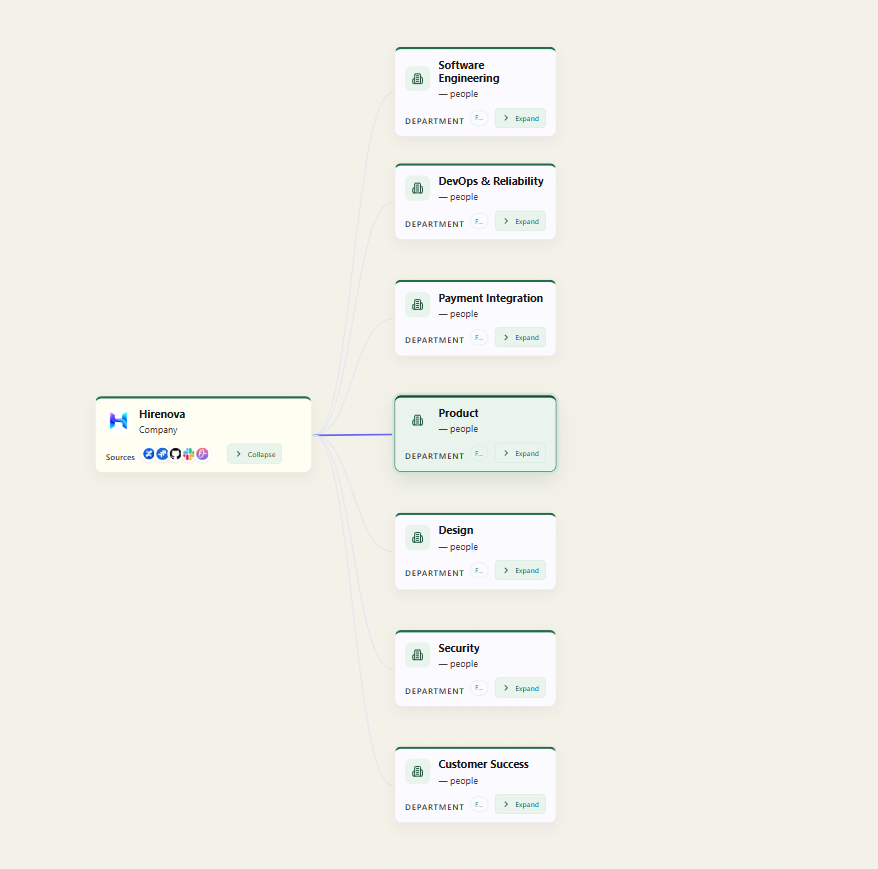
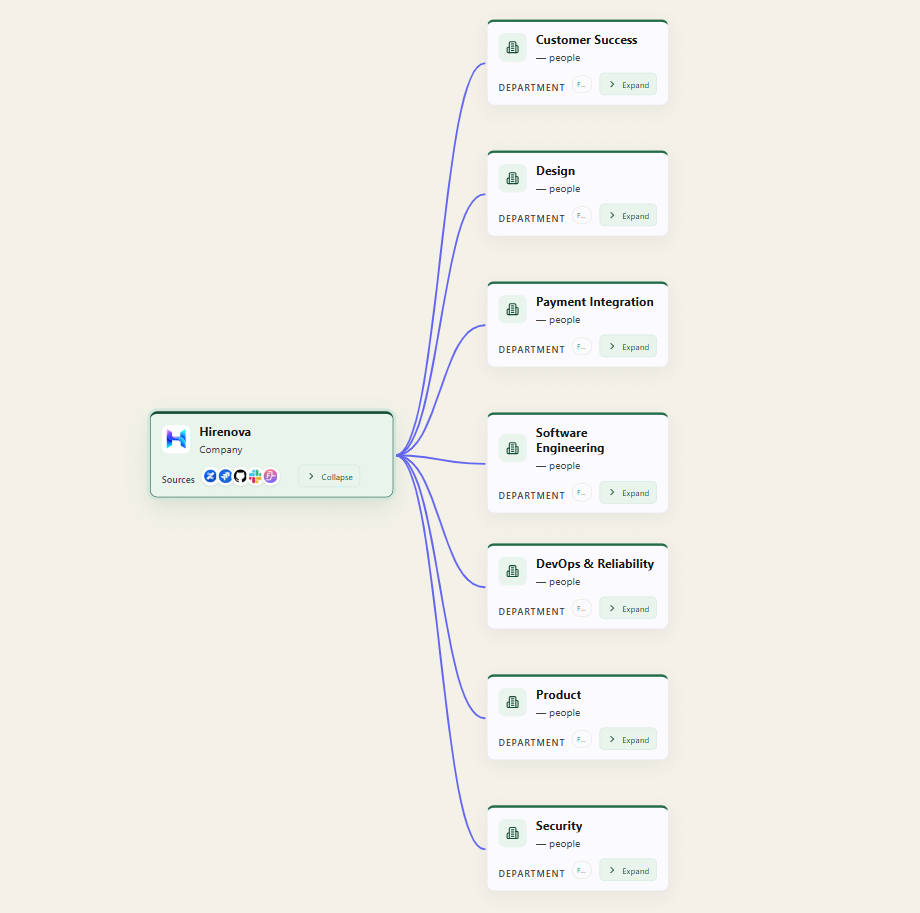
feat: improve OrgMind chat and Jira answers

diff --git a/backend/src/agents/organization-intelligence/workflow/retrieval-graph.ts b/backend/src/agents/organization-intelligence/workflow/retrieval-graph.ts
@@ -18,6 +18,7 @@ export const RetrievalState = Annotation.Root({
   queryText: replace<string>(() => ''),
   queryEmbedding: replace<number[]>(() => []),
   queryEmbeddings: replace<number[][]>(() => []),
+  aggregateMetric: replace<'team-count' | 'people-count' | 'jira-issue-count' | 'recent-jira-issues' | undefined>(() => undefined),
   searchResults: replace<SearchResult[]>(() => []),
   retrievedChunks: replace<RetrievedChunkInfo[]>(() => []),
   sources: replace<RAGSourceCitation[]>(() => []),
@@ -84,6 +85,12 @@ export function createRetrievalWorkflow(config: RetrievalGraphConfig = {}) {
   const store = config.vectorStore ?? new PersistentVectorStore();
   const embeddings = config.embeddingService ?? new GeminiEmbeddingService();
   const model = config.model ?? configuredRagModel();
+  const canAnswerWithLiveAggregate = (state: RetrievalWorkflowState) => {
+    const databaseAllowed = (!state.request.sourceTypes || state.request.sourceTypes.includes('database')) &&
+      (!state.request.sourcePlatforms || state.request.sourcePlatforms.includes('database') ||
+        (state.aggregateMetric === 'jira-issue-count' || state.aggregateMetric === 'recent-jira-issues') && state.request.sourcePlatforms.includes('jira'));
+    return store instanceof FalkorDBVectorStore && Boolean(state.aggregateMetric) && databaseAllowed;
+  };
 
   const graph = new StateGraph(RetrievalState)
     // 1. process_user_query
@@ -107,15 +114,24 @@ export function createRetrievalWorkflow(config: RetrievalGraphConfig = {}) {
       const retrievalQuery = previous
         ? `${q}\nPrevious question: ${previous.query}\nPrevious answer: ${previous.answer}`
         : q;
+      const asksForCount = /\b(how many|number of|count of|total)\b/i.test(q);
+      const hasLocalScope = /\b(?:department|within|per)\b/i.test(q);
+      const asksForJiraIssues = /\bjira\b/i.test(q) && /\b(issues?|tickets?)\b/i.test(q);
+      let aggregateMetric: RetrievalWorkflowState['aggregateMetric'];
+      if (asksForCount && !hasLocalScope && asksForJiraIssues) aggregateMetric = 'jira-issue-count';
+      else if (!asksForCount && asksForJiraIssues && /\b(recent|latest|newest|last)\b/i.test(q)) aggregateMetric = 'recent-jira-issues';
+      else if (asksForCount && !hasLocalScope && /\bteams\b/i.test(q)) aggregateMetric = 'team-count';
+      else if (asksForCount && !hasLocalScope && !/\bteams?\b/i.test(q) && /\b(people|persons?|employees?|headcount|staff)\b/i.test(q)) aggregateMetric = 'people-count';
       return {
         queryText: retrievalQuery,
+        aggregateMetric,
         status: 'received' as const
       };
     })
 
     // 2. generate_query_embedding
     .addNode('generate_query_embedding', async (state) => {
-      if (state.status !== 'received') return {};
+      if (state.status !== 'received' || canAnswerWithLiveAggregate(state)) return {};
       try {
         const dimensions = await store.getEmbeddingDimensions();
         const queryEmbeddings = dimensions.length
@@ -134,6 +150,82 @@ export function createRetrievalWorkflow(config: RetrievalGraphConfig = {}) {
     .addNode('retrieve_relevant_context', async (state) => {
       if (state.status !== 'received') return {};
       try {
+        if (canAnswerWithLiveAggregate(state) && store instanceof FalkorDBVectorStore && state.aggregateMetric) {
+          if (state.aggregateMetric === 'jira-issue-count' || state.aggregateMetric === 'recent-jira-issues') {
+            const sourcePath = '/api/tickets';
+            const title = 'Verified Jira issues indexed in the company graph';
+            let count = 0;
+            let evidence: string;
+            let answer: string;
+            if (state.aggregateMetric === 'jira-issue-count') {
+              count = await store.countVerifiedJiraIssues();
+              evidence = `The live company graph contains ${count} distinct verified Jira issue records (Ticket and Bug nodes), matching the Jira-filtered Tickets API count. Synthetic records are excluded.`;
+              answer = `There are **${count} verified Jira issues** indexed in the company graph. [S1]`;
+            } else {
+              const issues = await store.getRecentVerifiedJiraIssues(5);
+              count = await store.countVerifiedJiraIssues();
+              evidence = issues.length
+                ? `The five most recently updated verified Jira issue records, sorted by their recorded updatedAt, updated, createdAt, or created timestamp:\n${issues.map((issue) => `- ${issue.key}: ${issue.summary}${issue.status ? `; status ${issue.status}` : ''}${issue.priority ? `; priority ${issue.priority}` : ''}${issue.updatedAt ? `; updated ${issue.updatedAt}` : ''}`).join('\n')}`
+                : `No verified Jira issue records are currently available in the company graph. The graph contains ${count} distinct verified Jira issue records.`;
+              answer = issues.length
+                ? `Here are the most recently updated Jira issues in the indexed records:\n\n${issues.map((issue) => `- **${issue.key} — ${issue.summary}**${issue.status ? ` · ${issue.status}` : ''}${issue.priority ? ` · ${issue.priority}` : ''}${issue.updatedAt ? ` · updated ${issue.updatedAt}` : ''}`).join('\n')}\n\n[S1]`
+                : `There are no verified Jira issues indexed right now. [S1]`;
+            }
+            const chunkId = `live-${state.aggregateMetric}-${count}`;
+            const timestamp = new Date().toISOString();
+            const metadata = {
+              chunkId,
+              orgId: state.request.orgId ?? 'hirenova',
+              sourceType: 'database' as const,
+              sourcePath,
+              title,
+              contentHash: `live:${state.aggregateMetric}:${count}`,
+              docHash: `live:${state.aggregateMetric}:${count}`,
+              createdAt: timestamp,
+              updatedAt: timestamp,
+              summaryKind: state.aggregateMetric
+            };
+            return {
+              candidateCount: 1,
+              retrievedChunks: [{ chunkId, sourcePath, score: 1, text: evidence, platform: 'jira' as const, metadata }],
+              sources: [{ title, sourceType: 'database' as const, sourcePath, platform: 'jira' as const, excerpt: evidence }],
+              answer,
+              status: 'completed' as const
+            };
+          }
+          const entity = state.aggregateMetric === 'team-count' ? 'Team' : 'Employee';
+          const count = await store.countOrganizationEntities(entity);
+          const entityName = entity === 'Team' ? 'team' : 'people';
+          const sourcePath = `database/Organization/${state.aggregateMetric}`;
+          const title = `Live organization ${entityName} count from FalkorDB`;
+          const text = entity === 'Team'
+            ? `The live company graph contains ${count} Team nodes, counted as distinct graph entities.`
+            : `The live company graph contains ${count} Employee nodes, counted as distinct graph entities. This total includes every employee record regardless of employment status.`;
+          const chunkId = `live-aggregate-${state.aggregateMetric}`;
+          const timestamp = new Date().toISOString();
+          const metadata = {
+            chunkId,
+            orgId: state.request.orgId ?? 'hirenova',
+            sourceType: 'database' as const,
+            sourcePath,
+            title,
+            contentHash: `live:${state.aggregateMetric}:${count}`,
+            docHash: `live:${state.aggregateMetric}:${count}`,
+            createdAt: timestamp,
+            updatedAt: timestamp,
+            summaryKind: 'live-entity-count'
+          };
+          const answer = entity === 'Team'
+            ? `The live company graph contains **${count} teams**. [S1]`
+            : `The live company graph records **${count} people** as Employee nodes. This includes all employment statuses. [S1]`;
+          return {
+            candidateCount: 1,
+            retrievedChunks: [{ chunkId, sourcePath, score: 1, text, platform: 'database' as const, metadata }],
+            sources: [{ title, sourceType: 'database' as const, sourcePath, platform: 'database' as const, excerpt: text }],
+            answer,
+            status: 'completed' as const
+          };
+        }
         const topK = Math.min(state.request.topK ?? 5, 5);
         const candidateLimit = Math.max(10, topK);
         const searchOptions = {

diff --git a/frontend/components/assistant/CompanyAssistant.tsx b/frontend/components/assistant/CompanyAssistant.tsx
@@ -1,7 +1,7 @@
 "use client";
 
 import { useEffect, useLayoutEffect, useRef, useState, type FormEvent, type KeyboardEvent } from "react";
-import { ArrowDown, ArrowUpRight, Bot, Compass, MessageSquarePlus, Send, Sparkles, UserRound, X } from "lucide-react";
+import { ArrowDown, ArrowUpRight, Bot, MessageSquarePlus, Send, Sparkles, UserRound, X } from "lucide-react";
 import { AgentResponseRenderer } from "@/components/assistant/AgentResponseRenderer";
 import { api, entityName, friendlyApiError } from "@/lib/api";
 import { isProductGraphEntity } from "@/lib/graph/mode";
@@ -19,7 +19,7 @@ const newMessageId = () => `${Date.now()}-${Math.random().toString(36).slice(2, 
 const ragGreeting: Message = {
   id: "rag-greeting",
   role: "assistant",
-  content: "Ask about your company’s projects, people, incidents, decisions, and documentation. OrgMind searches indexed company evidence and cites the sources it uses.",
+  content: "Ask about your company’s projects, people, incidents, decisions, and documentation. Nora searches indexed OrgMind evidence and cites the sources it uses.",
 };
 const graphGreeting: Message = {
   id: "graph-greeting",
@@ -27,6 +27,8 @@ const graphGreeting: Message = {
   content: "Ask about indexed company graph records. I can inspect ownership, decisions, dependencies, and connected evidence.",
 };
 const ragSuggestions = [
+  "What are the most recent Jira issues?",
+  "How many Jira tickets are indexed?",
   "What is the engineering team working on?",
   "Summarize recent incidents.",
   "who is responsible person for payment teams",
@@ -39,7 +41,7 @@ export function CompanyAssistant({ open, onClose, selected }: {
   onClose: () => void;
   selected?: { entity: Entity; entityType: GraphEntityType | "Unknown" } | null;
 }) {
-  const [mode, setMode] = useState<"intelligence" | "graph">("intelligence");
+  const [mode] = useState<"intelligence" | "graph">("intelligence");
   const [messages, setMessages] = useState<Message[]>([ragGreeting]);
   const [draft, setDraft] = useState("");
   const [pending, setPending] = useState(false);
@@ -87,16 +89,6 @@ export function CompanyAssistant({ open, onClose, selected }: {
     lastFailedRequest.current = null;
     nearBottom.current = true;
     setShowJump(false);
-  }
-
-  function handleModeChange(newMode: "intelligence" | "graph") {
-    if (newMode === mode) return;
-    invalidateActiveRequest();
-    setMode(newMode);
-    setConversationId(null);
-    setError("");
-    lastFailedRequest.current = null;
-    setMessages([newMode === "intelligence" ? ragGreeting : graphGreeting]);
   }
 
   async function selectConversation(id: string) {
@@ -188,7 +180,10 @@ export function CompanyAssistant({ open, onClose, selected }: {
     const requestController = new AbortController();
     controller.current = requestController;
     const userMessageId = newMessageId();
-    if (appendUser) setMessages((previous) => [...previous, { id: userMessageId, role: "user", content: question }]);
+    if (appendUser) {
+      setMessages((previous) => [...previous, { id: userMessageId, role: "user", content: question }]);
+      setDraft((previous) => previous === question ? "" : previous);
+    }
     setPending(true);
     setError("");
     lastFailedRequest.current = null;
@@ -267,12 +262,13 @@ export function CompanyAssistant({ open, onClose, selected }: {
   const connected = connection === "available" && (mode !== "intelligence" || ragStatus?.vectorStore !== "unavailable");
   if (!open) return null;
 
-  return <section className="assistant-panel" aria-label="OrgMind Assistant" data-lenis-prevent>
+  return <section className="assistant-panel" aria-label="Nora company assistant" data-lenis-prevent>
     <header className="assistant-header">
       <div className="assistant-title">
         <span className="assistant-title-icon"><img src="/img/logo.png" alt="" width={24} height={24} /></span>
         <div className="assistant-heading-copy">
-          <b>OrgMind Assistant</b>
+          <b>Nora</b>
+          <span className="assistant-brand-caption">OrgMind company intelligence</span>
           <span className={`assistant-connection ${connected ? "is-available" : connection === "checking" ? "is-checking" : "is-unavailable"}`} role="status">
             <i aria-hidden="true" />{connected ? "Connected" : connection === "checking" ? "Checking connection" : "Backend unavailable"}
           </span>
@@ -286,11 +282,6 @@ export function CompanyAssistant({ open, onClose, selected }: {
         <button type="button" className="icon-button" onClick={onClose} aria-label="Close assistant"><X size={16} /></button>
       </div>
     </header>
-
-    <div className="assistant-mode-bar" role="tablist" aria-label="Assistant mode">
-      <button type="button" role="tab" aria-selected={mode === "intelligence"} className={`assistant-mode-pill ${mode === "intelligence" ? "active" : ""}`} onClick={() => handleModeChange("intelligence")}><Sparkles size={14} /><span>Company knowledge</span></button>
-      <button type="button" role="tab" aria-selected={mode === "graph"} className={`assistant-mode-pill ${mode === "graph" ? "active" : ""}`} onClick={() => handleModeChange("graph")}><Compass size={14} /><span>Graph Explorer</span></button>
-    </div>
 
     <div className="assistant-context-line">
       <span>{mode === "intelligence" ? "Search across indexed company knowledge" : selected ? `Context: ${selected.entityType} · ${entityName(selected.entity)}` : "Explore relationships in the company graph"}</span>
@@ -317,7 +308,7 @@ export function CompanyAssistant({ open, onClose, selected }: {
           {message.ragResponse && <AgentResponseRenderer payload={message.ragResponse} messageId={message.id} />}
           {!message.ragResponse && message.response && <AgentResponseRenderer payload={message.response} onAction={action} messageId={message.id} />}
         </div>)}
-        {pending && <div className="assistant-pending" role="status"><span className="spinner" />{mode === "intelligence" ? "Searching company sources and preparing an answer…" : "Retrieving graph evidence…"}</div>}
+        {pending && <div className="assistant-pending" role="status"><span className="orgmind-thinking-orb" aria-hidden="true"><i /><i /><i /><b /></span><span>{mode === "intelligence" ? "Nora is connecting the evidence…" : "Nora is exploring graph relationships…"}</span></div>}
         {error && <div className="assistant-error" role="alert"><span>{error}</span>{lastFailedRequest.current && <button className="small-button" type="button" onClick={() => {
           const failed = lastFailedRequest.current;
           if (failed) void answer(failed.question, failed.context, false, failed.mode);

diff --git a/frontend/app/globals.css b/frontend/app/globals.css
@@ -5551,7 +5551,7 @@ body {
   line-height: 1.5;
 }
 .assistant-form textarea::placeholder { color: #858a82; }
-.assistant-form textarea:focus-visible { outline: 2px solid #8eae98; outline-offset: 3px; border-radius: 4px; }
+.assistant-form textarea:focus-visible { outline: none; box-shadow: none; }
 .assistant-form button[type="submit"] { grid-column: 3; grid-row: 1; align-self: end; width: 38px; height: 38px; flex: 0 0 auto; }
 .assistant-composer-icon { grid-column: 1; grid-row: 1; align-self: center; color: #6d8b74; }
 .assistant-form button:focus-visible, .assistant-header button:focus-visible, .assistant-mode-pill:focus-visible, .suggestion-chip:focus-visible, .rag-inline-citation:focus-visible, .rag-copy-answer:focus-visible, .assistant-jump-latest:focus-visible { outline: 2px solid #538366; outline-offset: 2px; }
@@ -5583,6 +5583,22 @@ body {
 .rag-source-expand { flex: 0 0 auto; color: #72776f; font-size: 9px; }
 .rag-source-detail { display: grid; gap: 7px; padding: 0 10px 9px 45px; }
 .rag-source-detail > p { margin: 0; color: #686e66; font-size: 10px; line-height: 1.5; white-space: pre-wrap; overflow-wrap: anywhere; }
+.assistant-brand-caption { color: #7b8278; font-size: 9px; letter-spacing: .015em; }
+.assistant-title .assistant-heading-copy { grid-template-columns: 1fr; }
+.assistant-title .assistant-heading-copy > b { color: #183b2c; font-size: 13px; letter-spacing: -.015em; }
+.assistant-pending { min-height: 46px; margin: 2px 0; padding: 7px 10px; border: 1px solid #e5ece3; border-radius: 12px; background: linear-gradient(110deg, #fbfcf6, #f1f7f1 50%, #fbfcf6); }
+.orgmind-thinking-orb { position: relative; display: grid; width: 28px; height: 28px; flex: 0 0 28px; place-items: center; border-radius: 50%; background: radial-gradient(circle at 38% 32%, #d5f4df, #66b889 39%, #1d6545 72%, #16412e); box-shadow: 0 0 0 4px rgba(47, 133, 84, .08), 0 0 16px rgba(47, 133, 84, .25); animation: nora-orb-breathe 1.8s ease-in-out infinite; }
+.orgmind-thinking-orb b { width: 7px; height: 7px; border-radius: 50%; background: #f7fff7; box-shadow: 0 0 8px rgba(255,255,255,.9); }
+.orgmind-thinking-orb i { position: absolute; inset: -4px; border: 1px solid rgba(50, 130, 82, .3); border-radius: 50%; animation: nora-orb-ring 2.2s ease-out infinite; }
+.orgmind-thinking-orb i:nth-child(2) { animation-delay: .72s; }
+.orgmind-thinking-orb i:nth-child(3) { animation-delay: 1.44s; }
+.rag-typing-caret { display: inline-block; width: 2px; height: 1em; margin-left: 2px; vertical-align: -2px; background: #2d7850; animation: nora-caret .8s steps(2, start) infinite; }
+@keyframes nora-orb-breathe { 50% { transform: scale(1.08); filter: saturate(1.15); } }
+@keyframes nora-orb-ring { 0% { opacity: .55; transform: scale(.72); } 85%, 100% { opacity: 0; transform: scale(1.65); } }
+@keyframes nora-caret { to { visibility: hidden; } }
+@media (prefers-reduced-motion: reduce) {
+  .orgmind-thinking-orb, .orgmind-thinking-orb i, .rag-typing-caret { animation: none; }
+}
 .rag-source-link { display: inline-flex; width: fit-content; align-items: center; gap: 5px; color: #236443; font-size: 10px; font-weight: 600; text-decoration: none; }
 .rag-source-link:hover { text-decoration: underline; }
 .rag-source-developer { color: #747a72; font-size: 9px; }

diff --git a/backend/src/agents/organization-intelligence/vector-store/falkordb-vector-store.ts b/backend/src/agents/organization-intelligence/vector-store/falkordb-vector-store.ts
@@ -170,6 +170,43 @@ export class FalkorDBVectorStore {
     return { totalSources: Number(found.documents ?? 0), processed: Number(found.documents ?? 0), skipped: 0, updated: 0, failed: Number(job.failedWork ?? 0), failedWork: Number(job.failedWork ?? 0), pendingWork: Number(job.pendingWork ?? 0), totalChunks: Number(found.chunks ?? 0), lastIngestedAt: String(job.lastSuccessfulIngestion ?? found.updatedAt ?? this.lastUpdated), lastSuccessfulIngestion: typeof job.lastSuccessfulIngestion === 'string' ? job.lastSuccessfulIngestion : undefined, sourceTypeBreakdown: breakdown };
   }
 
+  async countOrganizationEntities(entity: 'Employee' | 'Team'): Promise<number> {
+    const result = rows(await this.graph.query(`MATCH (n:${entity}) RETURN count(DISTINCT n) AS count`));
+    const count = Number(result[0]?.count);
+    if (!Number.isSafeInteger(count) || count < 0) throw new Error(`FalkorDB returned an invalid ${entity} count.`);
+    return count;
+  }
+
+  async countVerifiedJiraIssues(): Promise<number> {
+    const result = rows(await this.graph.query(`MATCH (n) WHERE (n:Ticket OR n:Bug)
+      AND toLower(coalesce(n.sourceSystem,''))='jira'
+      AND ((coalesce(n.synthetic,false)=false AND n.provenance IN ['external-verified','user-provided']) OR n.provenance='mock-verified')
+      AND n.sourceRecordId IS NOT NULL
+      RETURN count(DISTINCT n.sourceRecordId) AS count`));
+    const count = Number(result[0]?.count);
+    if (!Number.isSafeInteger(count) || count < 0) throw new Error('FalkorDB returned an invalid verified Jira issue count.');
+    return count;
+  }
+
+  async getRecentVerifiedJiraIssues(limit = 5): Promise<Array<{ id: string; key: string; summary: string; status?: string; priority?: string; updatedAt?: string; url?: string }>> {
+    const result = rows(await this.graph.query(`MATCH (n) WHERE (n:Ticket OR n:Bug)
+      AND toLower(coalesce(n.sourceSystem,''))='jira'
+      AND ((coalesce(n.synthetic,false)=false AND n.provenance IN ['external-verified','user-provided']) OR n.provenance='mock-verified')
+      AND n.sourceRecordId IS NOT NULL
+      RETURN n.id AS id, coalesce(n.key,n.sourceRecordKey,n.sourceRecordId) AS issueKey,
+        coalesce(n.summary,n.title,n.name) AS summary, n.status AS status, n.priority AS priority,
+        coalesce(n.updatedAt,n.updated,n.createdAt,n.created) AS updatedAt,
+        coalesce(n.externalUrl,n.url) AS url
+      ORDER BY updatedAt DESC LIMIT $limit`, { params: { limit } }));
+    return result.flatMap((row) => {
+      const id = String(row.id ?? '');
+      const key = String(row.issueKey ?? '');
+      const summary = String(row.summary ?? '').trim();
+      if (!key || !summary) return [];
+      return [{ id, key, summary, ...(typeof row.status === 'string' ? { status: row.status } : {}), ...(typeof row.priority === 'string' ? { priority: row.priority } : {}), ...(typeof row.updatedAt === 'string' ? { updatedAt: row.updatedAt } : {}), ...(typeof row.url === 'string' ? { url: row.url } : {}) }];
+    });
+  }
+
   getEmbeddingDimensions(): number[] { return [EMBEDDING_DIMENSIONS]; }
   async save(): Promise<void> { this.lastUpdated = new Date().toISOString(); }
   async clear(): Promise<void> {

diff --git a/frontend/components/assistant/AgentResponseRenderer.tsx b/frontend/components/assistant/AgentResponseRenderer.tsx
@@ -2,7 +2,7 @@
 
 import Link from "next/link";
 import React from "react";
-import { useState } from "react";
+import { useEffect, useState } from "react";
 import {
   ArrowUpRight,
   BookOpen,
@@ -485,6 +485,25 @@ function isRagResponse(payload: unknown): payload is OrganizationRagResponse | R
   );
 }
 
+function TypedRagAnswer({ text, citationCount, onCitationClick }: { text: string; citationCount: number; onCitationClick: (number: number) => void }) {
+  const [visibleText, setVisibleText] = useState("");
+  useEffect(() => {
+    if (window.matchMedia("(prefers-reduced-motion: reduce)").matches) {
+      setVisibleText(text);
+      return;
+    }
+    const characters = Array.from(text);
+    let visible = 0;
+    const timer = window.setInterval(() => {
+      visible = Math.min(characters.length, visible + 3);
+      setVisibleText(characters.slice(0, visible).join(""));
+      if (visible >= characters.length) window.clearInterval(timer);
+    }, 14);
+    return () => window.clearInterval(timer);
+  }, [text]);
+  return <><MarkdownAnswer text={visibleText} citationCount={citationCount} onCitationClick={onCitationClick} />{visibleText.length < text.length && <i className="rag-typing-caret" aria-hidden="true" />}</>;
+}
+
 function safeExternalSourceUrl(value?: string): string | undefined {
   if (!value) return undefined;
   try {
@@ -530,10 +549,10 @@ export function AgentResponseRenderer({
     return (
       <article className="rag-answer">
         <div className="rag-answer-actions">
-          <span className="rag-answer-label"><Sparkles size={13} aria-hidden="true" /> OrgMind</span>
+          <span className="rag-answer-label"><Sparkles size={13} aria-hidden="true" /> Nora · OrgMind</span>
           <CopyAnswerButton text={rag.answer} />
         </div>
-        <MarkdownAnswer text={rag.answer} citationCount={sources.reduce((max, source, index) => Math.max(max, ...( "citationIds" in source && source.citationIds?.length ? source.citationIds.map((id) => Number(id.slice(1))) : [index + 1])), 0)} onCitationClick={(number) => focusCitationSource(messageId, number)} />
+        <div className="rag-typed-answer"><TypedRagAnswer text={rag.answer} citationCount={sources.reduce((max, source, index) => Math.max(max, ...("citationIds" in source && source.citationIds?.length ? source.citationIds.map((id) => Number(id.slice(1))) : [index + 1])), 0)} onCitationClick={(number) => focusCitationSource(messageId, number)} /></div>
         {!hasEvidence && (
           <p className="agent-uncertainty" role="status">No relevant evidence was found in the indexed company sources.</p>
         )}

diff --git a/backend/src/seed/generate.ts b/backend/src/seed/generate.ts
@@ -36,7 +36,7 @@ export function generateSeedData(companyStartDate = process.env.COMPANY_START_DA
     const managerId = i === 0 ? null : `emp-${String(Math.floor((i - 1) / 4)).padStart(2,'0')}`;
     const joinedAt = dateAt(founded, 20 + ((i * 47) % 1060));
     const departure = attrition.get(i);
-    add(node('Employee',`emp-${String(i).padStart(2,'0')}`,{ employeeId:`HN-${String(i+1).padStart(4,'0')}`, name, email:`${name.toLowerCase().replace(/[^a-z]+/g,'.')}@example.com`, profilePictureUrl:`https://images.example.com/hirenova/${i}.png`, jobTitle:titles[i % titles.length], departmentId, teamId, managerId, joinedAt, employmentStatus:departure?.status ?? 'active', ...(departure ? { leftAt:dateAt(new Date(`${joinedAt}T00:00:00Z`), departure.departureOffset), departureReason:departure.reason } : {}), seniority:i % 5 === 0 ? 'staff' : i % 3 === 0 ? 'senior' : 'mid', skills:['typescript','systems','communication'].slice(0, 1 + i % 3), location:i % 3 === 0 ? 'Remote' : 'Bengaluru', sourceSystem:'seed', sourceRecordId:`employee-${i}`, createdAt:joinedAt, updatedAt:companyStartDate }));
+    add(node('Employee',`emp-${String(i).padStart(2,'0')}`,{ employeeId:`HN-${String(i+1).padStart(4,'0')}`, name, email:`${name.toLowerCase().replace(/[^a-z]+/g,'.')}@hirenova.com`, profilePictureUrl:`https://images.example.com/hirenova/${i}.png`, jobTitle:titles[i % titles.length], departmentId, teamId, managerId, joinedAt, employmentStatus:departure?.status ?? 'active', ...(departure ? { leftAt:dateAt(new Date(`${joinedAt}T00:00:00Z`), departure.departureOffset), departureReason:departure.reason } : {}), seniority:i % 5 === 0 ? 'staff' : i % 3 === 0 ? 'senior' : 'mid', skills:['typescript','systems','communication'].slice(0, 1 + i % 3), location:i % 3 === 0 ? 'Remote' : 'Bengaluru', sourceSystem:'seed', sourceRecordId:`employee-${i}`, createdAt:joinedAt, updatedAt:companyStartDate }));
     edges.push({from:`emp-${String(i).padStart(2,'0')}`,to:departmentId,type:'WORKS_IN'},{from:`emp-${String(i).padStart(2,'0')}`,to:teamId,type:'MEMBER_OF'});
     if (managerId) edges.push({from:`emp-${String(i).padStart(2,'0')}`,to:managerId,type:'REPORTS_TO'});
   });
